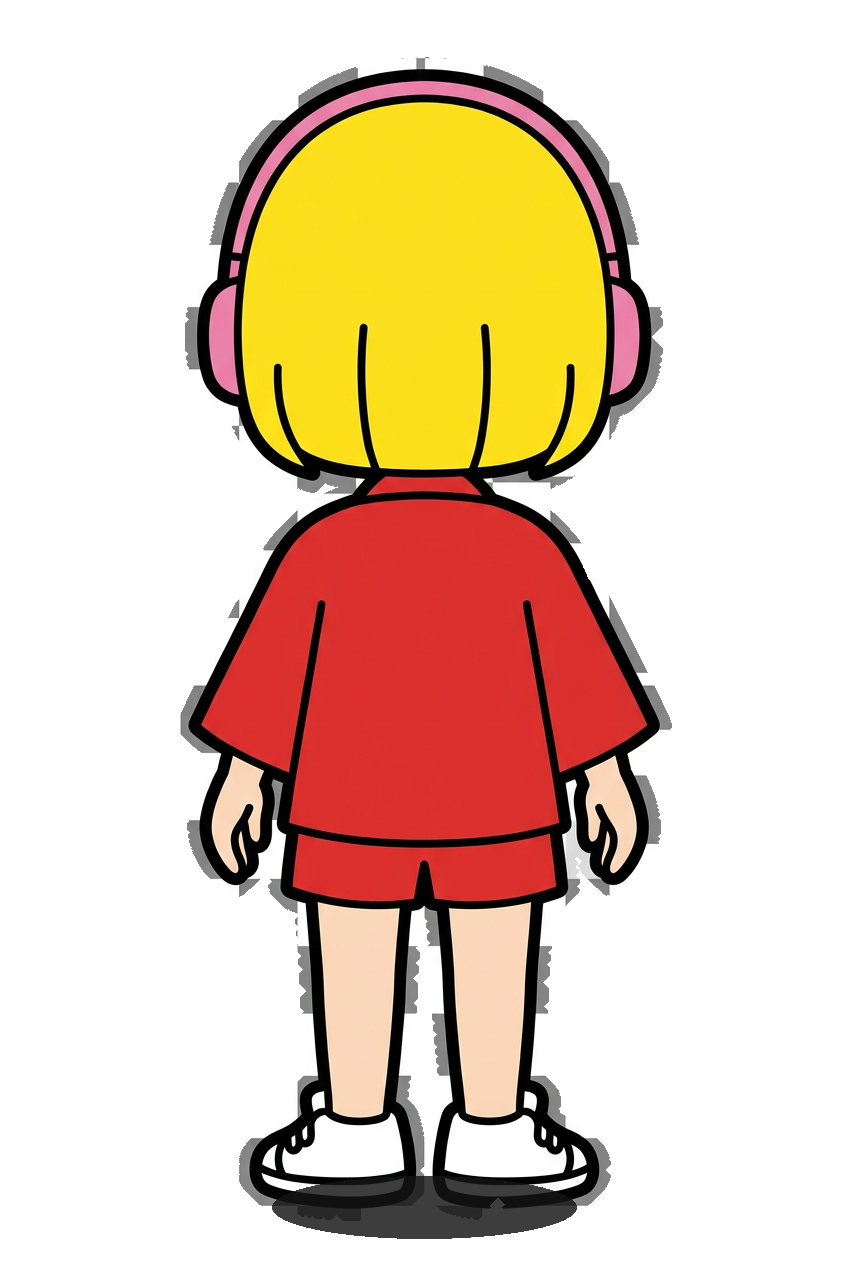
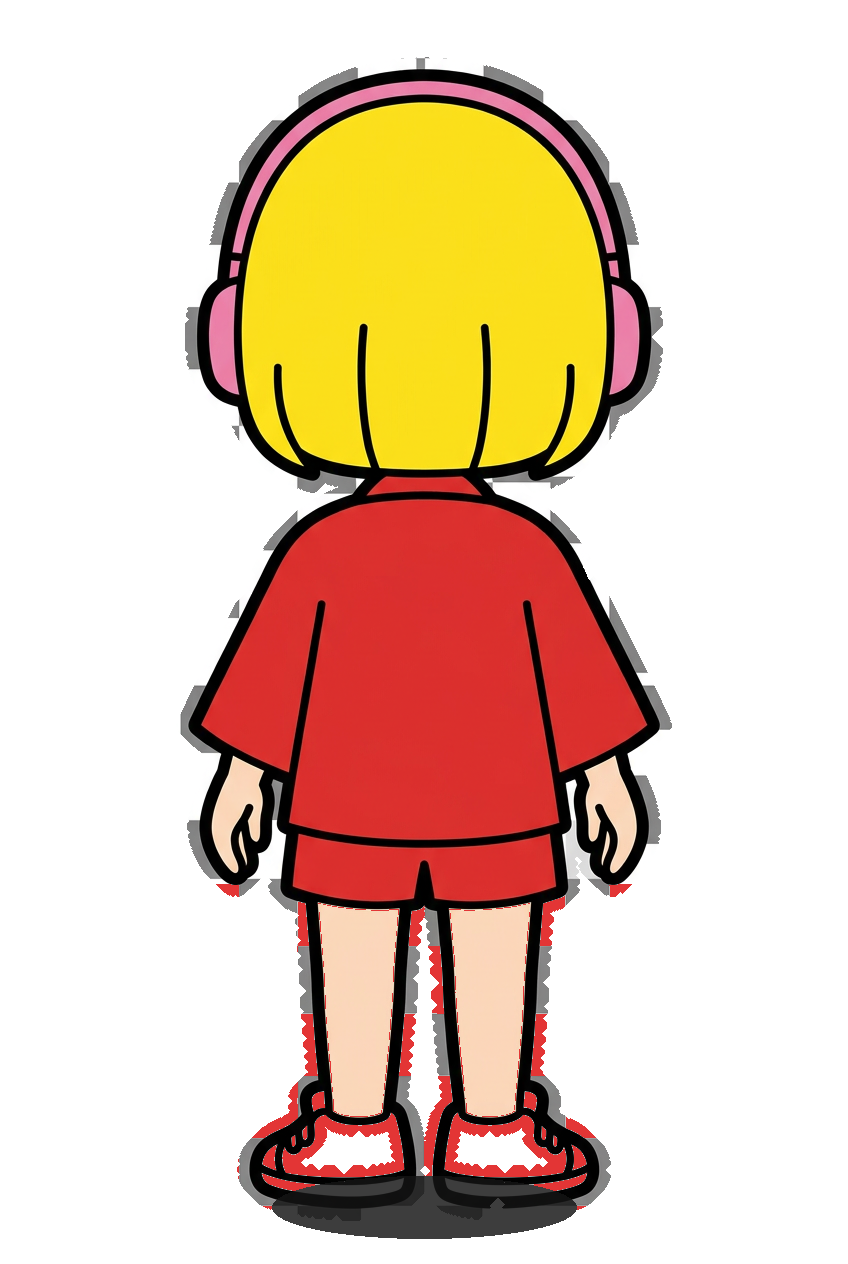
feat: 靴をブランド赤色 (#e33535) に統一 + HUD 座標表示削除
ユーザーフィードバック反映 (Phase 5-E 本番動作確認後):
1. 「靴の白色だと透ける様子なので赤色にした方が」
2. 「座標の表示は不要」

変更内容:
- scripts/fix-sprites.py: Step 3 追加 (下端 30% の白いピクセルを #e33535 に置換)
  - 判定: alpha > 200 + R,G,B all >= 200 (黒アウトライン保護、肌色保護)
  - PNG metadata sentinel "tdk-shoe-color=red-v1" で冪等性保証
  - 既存 foot-shadow sentinel と key 分離で共存
  - 14 sprite 全てに適用 (changed_px: 11k-21k/枚)
- src/ui/HUD.ts: HUDState 型 + posEl + update() メソッド削除
- src/core/Game.ts: hud.update() 呼び出し削除
- index.html: #hud-position pill 削除

ブランド整合: 赤い和風ジャケット + 赤い短パン + 赤いスニーカーで統一感確保。
透過アルゴリズムは既に黒シャドウで補強済みだが、白靴 → 白チェッカー
背景との交差リスクが根本的に消える。

検証:
- npm run typecheck PASS
- npm run build PASS (bundle 2,761kB / gzip 970kB、画像のみ変更)
- 目視確認: front-idle / run / side-run の 3 枚で赤靴が正しく表示

diff --git a/src/ui/HUD.ts b/src/ui/HUD.ts
@@ -1,16 +1,11 @@
 /**
- * Phase 5-C の HUD。座標 + 現在ミッション + 進捗 + クリア演出を担当。
+ * Phase 5-C の HUD。現在ミッション + 進捗 + クリア演出を担当。
  *
- * - 座標 (Phase 5-A から継続、デバッグ・位置感覚用)
  * - 現在ミッション名 + 進捗 (例: 「DXの種を集めよう  3/10」)
  * - クリア時の一時メッセージ (3 秒で自動消去)
+ *
+ * (座標表示は Phase 5-E ハンドオフで不要と判断され削除)
  */
-export interface HUDState {
-  x: number;
-  y: number;
-  z: number;
-}
-
 export interface HUDMission {
   title: string;
   progress: string;
@@ -18,7 +13,6 @@ export interface HUDMission {
 
 export class HUD {
   private readonly root: HTMLElement;
-  private readonly posEl: HTMLElement;
   private readonly missionEl: HTMLElement;
   private readonly missionTitleEl: HTMLElement;
   private readonly missionProgressEl: HTMLElement;
@@ -27,16 +21,14 @@ export class HUD {
 
   constructor() {
     const root = document.getElementById("hud");
-    const pos = document.getElementById("hud-position");
     const mission = document.getElementById("hud-mission");
     const missionTitle = document.getElementById("hud-mission-title");
     const missionProgress = document.getElementById("hud-mission-progress");
     const toast = document.getElementById("hud-toast");
-    if (!root || !pos || !mission || !missionTitle || !missionProgress || !toast) {
+    if (!root || !mission || !missionTitle || !missionProgress || !toast) {
       throw new Error("HUD 要素が見つかりません");
     }
     this.root = root;
-    this.posEl = pos;
     this.missionEl = mission;
     this.missionTitleEl = missionTitle;
     this.missionProgressEl = missionProgress;
@@ -49,10 +41,6 @@ export class HUD {
 
   hide(): void {
     this.root.classList.add("hidden");
-  }
-
-  update(s: HUDState): void {
-    this.posEl.textContent = `x:${s.x.toFixed(1)} y:${s.y.toFixed(1)} z:${s.z.toFixed(1)}`;
   }
 
   setMission(m: HUDMission | null): void {

diff --git a/index.html b/index.html
@@ -37,7 +37,6 @@
         </div>
         <div id="hud" class="hud hidden">
           <div class="hud-row hud-row-top">
-            <div class="hud-pill"><span class="hud-label">座標</span><span id="hud-position">x:0 y:0 z:0</span></div>
             <div class="hud-pill hud-hint">M でミッション一覧 ・ クリックで視点ロック ・ WASD 移動 / Space ジャンプ</div>
           </div>
           <div id="hud-mission" class="hud-mission hidden">

diff --git a/src/core/Game.ts b/src/core/Game.ts
@@ -329,12 +329,6 @@ export class Game {
 
       // NPC 近接判定 + 「E で話す」ヒント更新
       this.updateNpcsAndHint(this.player.position, dt);
-
-      this.hud.update({
-        x: this.player.position.x,
-        y: this.player.position.y,
-        z: this.player.position.z,
-      });
     }
 
     this.renderer.render(this.scene, this.camera.camera);

diff --git a/scripts/fix-sprites.py b/scripts/fix-sprites.py
@@ -1,16 +1,19 @@
 #!/usr/bin/env python3
 """
-スプライト整合化 + 靴シャドウ強制 (Phase 5-E バグ修正)
+スプライト整合化 + 靴シャドウ強制 + 靴赤色化 (Phase 5-E / Phase 5-F)
 
 問題:
 1. tadakayo-side-idle.png / tadakayo-side-run.png が「右向き」になっておらず、
    実際は左向き or 正面気味の絵が混じっていた → 右移動時に違和感
 2. 全 sprite で run/jump 系の靴透明 (下端中央 opaque 0-12%) → 走ったり跳んだりすると靴が消える
+3. 白いスニーカーが背景の白チェッカー柄と区別がつかず、透過処理で部分消失
 
 対処:
 1. 全 side-{pose}.png を side-left-{pose}.png の水平反転で再生成 (左右一貫性確保)
 2. 全 14 sprite (front/back/sideLeft/sideRight × idle/run/jump/crouch) の下端中央に
    黒い楕円フットシャドウを強制描画 → 靴がなくても「足元に影」として自然に見える
+3. 下端 30% 領域内の白いピクセルをブランド赤 (#e33535) に置換 → 透過リスクを根絶
+   + ブランドカラーとの整合 (短パン領域は下端 30% 外なので影響なし)
 
 使用法:
     python3 scripts/fix-sprites.py
@@ -108,6 +111,56 @@ def add_foot_shadow(path: str) -> tuple[float, float, str]:
     return before, after, "applied"
 
 
+def colorize_shoes_red(path: str) -> tuple[int, str]:
+    """
+    画像下端 30% 領域内の「白っぽい不透明ピクセル」をブランド赤 (#e33535) に置換。
+
+    判定条件 (and):
+    - alpha > 200 (不透明)
+    - R, G, B all >= 200 (白〜薄灰)
+
+    => 白い靴 / 白い靴底のみ対象。黒アウトライン (RGB 低) と肌色 (R>>G>B) は保持。
+    短パン (画像下から 30-50%) は処理範囲外なので影響なし。
+
+    **冪等性保証**: PNG metadata `tdk-shoe-color=red-v1` を sentinel に使用。
+    既に塗布済みなら再処理しない (foot-shadow sentinel は別 key で共存)。
+
+    return: (changed_pixel_count, status)
+    """
+    img = Image.open(path).convert("RGBA")
+    info = img.info or {}
+    if info.get("tdk-shoe-color") == "red-v1":
+        return 0, "skipped"
+
+    W, H = img.size
+    y_start = int(H * 0.70)  # 下から 30% (靴領域、短パンは除外)
+
+    pixels = img.load()
+    if pixels is None:
+        return 0, "error-no-pixels"
+
+    target = (227, 53, 53)  # #e33535 ブランド赤
+    changed = 0
+    for y in range(y_start, H):
+        for x in range(W):
+            px = pixels[x, y]
+            if not isinstance(px, tuple) or len(px) < 4:
+                continue
+            r, g, b, a = px[0], px[1], px[2], px[3]
+            if a > 200 and r >= 200 and g >= 200 and b >= 200:
+                pixels[x, y] = (target[0], target[1], target[2], a)
+                changed += 1
+
+    # PNG metadata: 既存 foot-shadow sentinel を保持 + shoe-color sentinel 追加
+    from PIL import PngImagePlugin
+    pnginfo = PngImagePlugin.PngInfo()
+    if info.get("tdk-foot-shadow") == "v1":
+        pnginfo.add_text("tdk-foot-shadow", "v1")
+    pnginfo.add_text("tdk-shoe-color", "red-v1")
+    img.save(path, "PNG", pnginfo=pnginfo)
+    return changed, "applied"
+
+
 def _foot_opaque_pct(img: Image.Image) -> float:
     """下端中央 (横 30-70%, 縦 92-100%) の不透明 pixel %"""
     W, H = img.size
@@ -143,6 +196,17 @@ def main() -> int:
         before, after, status = add_foot_shadow(path)
         result = "OK" if after >= 30.0 else "WARN"
         print(f"  [{result}] {name:35s}  {before:5.1f}%  →  {after:5.1f}%  [{status}]")
+
+    # 3. 靴の白を赤 (#e33535) に置換 (冪等、PNG metadata sentinel)
+    print("\n=== Step 3: 靴を赤色化 (下端 30% 内の白 → #e33535、冪等) ===")
+    print(f"{'sprite':40s}  changed_px  status")
+    print("-" * 70)
+    for name in SPRITES_FOR_SHADOW:
+        path = os.path.join(IMG_DIR, name)
+        if not os.path.exists(path):
+            continue
+        changed, status = colorize_shoes_red(path)
+        print(f"  {name:40s}  {changed:8d}  [{status}]")
 
     print("\nDone." + (f" ({len(missing)} missing)" if missing else ""))
     return 1 if missing else 0
